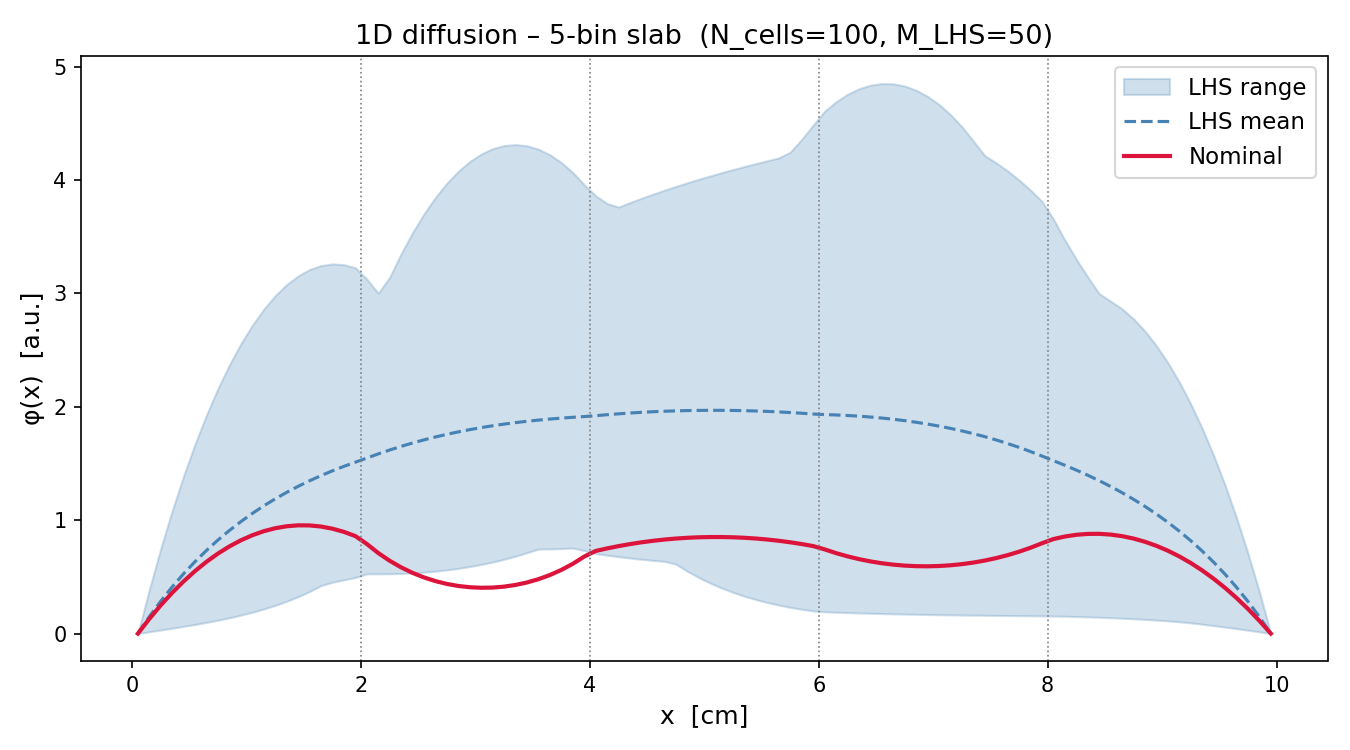
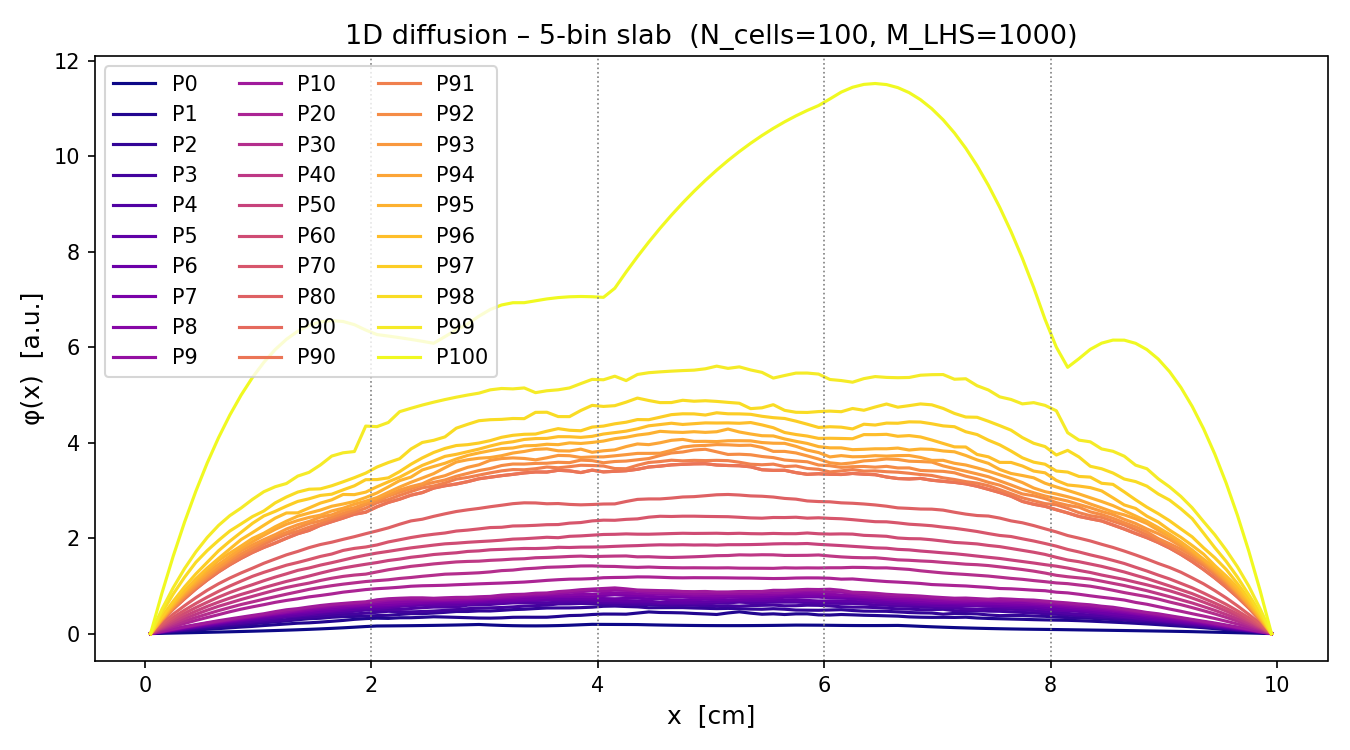
Inclusion of Layer 4 Sampling and More percentile lines for 1D case

diff --git a/1d_diffusion_example.py b/1d_diffusion_example.py
@@ -12,8 +12,7 @@ Problem setup
   BCs    : zero-flux Dirichlet on both ends (φ(0) = φ(L) = 0)
   Mesh   : N = 100 cells (20 cells per layer)
 
-A single "nominal" solve is printed and plotted.  A batch of M LHS samples
-is also solved and the resulting flux envelopes are shown.
+A batch of M LHS samples is solved and percentile flux profiles are plotted.
 """
 
 import numpy as np
@@ -33,34 +32,13 @@ N_CELLS = 100           # total finite-volume cells
 
 layer_bounds = np.linspace(0.0, L, N_BINS + 1)   # [0, 2, 4, 6, 8, 10]
 
-# ------------------------------------------------------------------ #
-# Nominal (fixed) material properties – one set per bin               #
-# ------------------------------------------------------------------ #
-D_nominal       = np.array([1.0, 0.5, 1.5, 0.8, 1.2])   # diffusion coeff [cm]
-Sigma_a_nominal = np.array([0.1, 0.8, 0.2, 0.5, 0.15])  # absorption [cm^-1]
-q_nominal       = np.array([1.0, 0.0, 0.5, 0.0, 1.0])   # source [n cm^-3 s^-1]
-
-# ------------------------------------------------------------------ #
-# Nominal solve                                                        #
-# ------------------------------------------------------------------ #
-x, phi = solve_diffusion(
-    L, N_CELLS, layer_bounds,
-    D_nominal, Sigma_a_nominal, q_nominal,
-    bc_left=('dirichlet', 0.0),
-    bc_right=('dirichlet', 0.0),
-)
-
 print("=== 5-bin diffusion problem ===")
 print(f"Layer bounds : {layer_bounds}")
-print(f"D            : {D_nominal}")
-print(f"Sigma_a      : {Sigma_a_nominal}")
-print(f"q            : {q_nominal}")
-print(f"Peak flux    : {phi.max():.4f}  at x = {x[phi.argmax()]:.2f} cm")
 
 # ------------------------------------------------------------------ #
 # LHS parameter study                                                  #
 # ------------------------------------------------------------------ #
-M_SAMPLES = 50
+M_SAMPLES = 1000
 SEED      = 42
 
 D_bounds       = [0.2, 2.0]    # [cm]
@@ -74,30 +52,39 @@ print(f"\nLHS design: {M_SAMPLES} samples, {sampler.p} parameters")
 
 # Solve for every LHS sample and collect flux profiles
 phi_all = np.empty((M_SAMPLES, N_CELLS))
+x = None
 for i, g in enumerate(X):
     D_i, Siga_i, q_i = sampler.unpack(g)
-    _, phi_i = solve_diffusion(
+    x_i, phi_i = solve_diffusion(
         L, N_CELLS, layer_bounds, D_i, Siga_i, q_i,
         bc_left=('dirichlet', 0.0),
         bc_right=('dirichlet', 0.0),
     )
+    if x is None:
+        x = x_i
     phi_all[i] = phi_i
 
-phi_mean = phi_all.mean(axis=0)
-phi_lo   = phi_all.min(axis=0)
-phi_hi   = phi_all.max(axis=0)
+# Percentile Counter
+# 0 - 9
+lower_percentiles = list(range(0, 10, 1))
+# 10 - 90
+midle_percentiles = list(range(10, 100, 10))
+# 91 - 100
+highr_percentiles = list(range(90, 101, 1))
+
+PERCENTILES = lower_percentiles + midle_percentiles + highr_percentiles
+phi_pcts = np.percentile(phi_all, PERCENTILES, axis=0)  # shape (9, N_CELLS)
 
 # ------------------------------------------------------------------ #
 # Plot                                                                 #
 # ------------------------------------------------------------------ #
 fig, ax = plt.subplots(figsize=(9, 5))
 
-# LHS envelope
-ax.fill_between(x, phi_lo, phi_hi, alpha=0.25, color='steelblue', label='LHS range')
-ax.plot(x, phi_mean, color='steelblue', lw=1.5, ls='--', label='LHS mean')
+cmap = plt.get_cmap('plasma')
+colors = [cmap(i / (len(PERCENTILES) - 1)) for i in range(len(PERCENTILES))]
 
-# Nominal solution
-ax.plot(x, phi, color='crimson', lw=2, label='Nominal')
+for pct, pct_vals, color in zip(PERCENTILES, phi_pcts, colors):
+    ax.plot(x, pct_vals, color=color, lw=1.5, label=f'P{pct}')
 
 # Layer boundaries
 for xb in layer_bounds[1:-1]:
@@ -106,7 +93,7 @@ for xb in layer_bounds[1:-1]:
 ax.set_xlabel('x  [cm]', fontsize=12)
 ax.set_ylabel('φ(x)  [a.u.]', fontsize=12)
 ax.set_title(f'1D diffusion – 5-bin slab  (N_cells={N_CELLS}, M_LHS={M_SAMPLES})', fontsize=13)
-ax.legend(fontsize=11)
+ax.legend(fontsize=10, ncol=3)
 plt.tight_layout()
 plt.savefig('output_graphs/5bin_diffusion.png', dpi=150)
 print("\nSaved: output_graphs/5bin_diffusion.png")

diff --git a/varying_source4_study.py b/varying_source4_study.py
@@ -1,0 +1,103 @@
+"""
+5-layer diffusion study: varying source in layer 5 only.
+
+Geometry
+--------
+  Domain       : x ∈ [0, 10] cm, 5 equal layers of width 2 cm each
+  Layer bounds : [0, 2, 4, 6, 8, 10]
+
+Fixed parameters (layers 1-5)
+------------------------------
+  D       = 1.0  cm          (all layers)
+  Sigma_a = 0.5  cm^-1       (all layers)
+  q       = 1.0  n/cm^3/s    (layers 1-3, 5 fixed)
+
+Varying parameter
+-----------------
+  q_4 ∈ [0, 3]  n/cm^3/s    (layer 5 only, sampled via LHS)
+
+BCs    : zero-flux Dirichlet on both ends (φ(0) = φ(10) = 0)
+Mesh   : N = 200 cells
+Plot   : solutions restricted to x ∈ [1, 5]
+"""
+
+import numpy as np
+import matplotlib
+matplotlib.use('Agg')
+import matplotlib.pyplot as plt
+
+from second_order_solver import solve_diffusion
+from lhs_generation import DiffusionParamSampler
+from masking_function import mask_solution
+
+# ------------------------------------------------------------------ #
+# Geometry                                                            #
+# ------------------------------------------------------------------ #
+L            = 10.0
+N_LAYERS     = 5
+N_CELLS      = 200
+layer_bounds = np.linspace(0.0, L, N_LAYERS + 1)   # [0,2,4,6,8,10]
+
+PLOT_MIN = 1.0
+PLOT_MAX = 5.0
+
+# ------------------------------------------------------------------ #
+# Parameter setup                                                      #
+# ------------------------------------------------------------------ #
+D_FIXED     = 1.0
+SIGMA_FIXED = 0.5
+Q_FIXED     = 1.0
+Q4_RANGE    = [0.0, 3.0]   # only layer 4 varies
+
+M_SAMPLES = 40
+SEED      = 0
+
+# Degenerate bounds [v, v] → fixed; only q for layer 4 is open
+D_bounds       = [[D_FIXED,     D_FIXED]]     * N_LAYERS
+sigma_a_bounds = [[SIGMA_FIXED, SIGMA_FIXED]] * N_LAYERS
+q_bounds       = [[Q_FIXED, Q_FIXED]] * (N_LAYERS - 2) + [Q4_RANGE] + [[Q_FIXED, Q_FIXED]]
+
+sampler = DiffusionParamSampler(N_LAYERS, D_bounds, sigma_a_bounds, q_bounds)
+X = sampler.sample(M_SAMPLES, random_state=SEED)
+
+# q_4 values actually sampled
+q4_values = X[:, -2]
+print(f"q_4 sample range: [{q4_values.min():.3f}, {q4_values.max():.3f}]")
+
+# ------------------------------------------------------------------ #
+# Solve for each sample                                               #
+# ------------------------------------------------------------------ #
+fig, ax = plt.subplots(figsize=(8, 5))
+
+cmap   = plt.get_cmap('plasma')
+norm   = plt.Normalize(vmin=Q4_RANGE[0], vmax=Q4_RANGE[1])
+
+for i, g in enumerate(X):
+    D_i, Siga_i, q_i = sampler.unpack(g)
+    x_full, phi_full = solve_diffusion(
+        L, N_CELLS, layer_bounds, D_i, Siga_i, q_i,
+        bc_left=('dirichlet', 0.0),
+        bc_right=('dirichlet', 0.0),
+    )
+    x_m, phi_m = mask_solution(x_full, phi_full, PLOT_MIN, PLOT_MAX)
+    ax.plot(x_m, phi_m, color=cmap(norm(q4_values[i])), lw=1.0, alpha=0.8)
+
+# ------------------------------------------------------------------ #
+# Colorbar and labels                                                  #
+# ------------------------------------------------------------------ #
+sm = plt.cm.ScalarMappable(cmap=cmap, norm=norm)
+sm.set_array([])
+cbar = fig.colorbar(sm, ax=ax)
+cbar.set_label("$q_4$  [n cm$^{-3}$ s$^{-1}$]", fontsize=11)
+
+ax.set_xlabel("x  [cm]", fontsize=12)
+ax.set_ylabel("φ(x)  [a.u.]", fontsize=12)
+ax.set_title(
+    f"5-layer slab – varying $q_4 \\in {Q4_RANGE}$\n"
+    f"solution shown on $x \\in [{PLOT_MIN}, {PLOT_MAX}]$",
+    fontsize=12,
+)
+plt.tight_layout()
+plt.savefig("output_graphs/varying_source_layer4.png", dpi=150)
+print("Saved: output_graphs/varying_source_layer4.png")
+plt.show()
